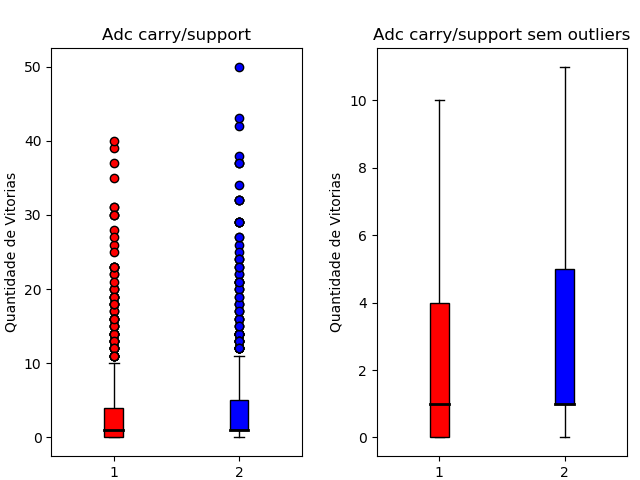
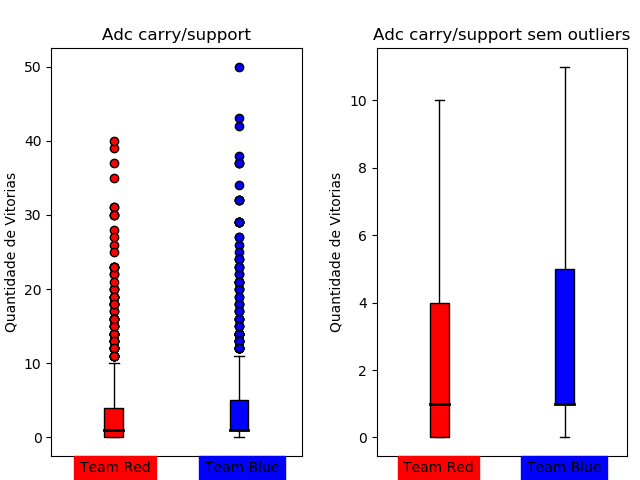
legendas dos subplots

diff --git a/Graphics/box_chart.py b/Graphics/box_chart.py
@@ -7,20 +7,27 @@ import errno
 def mathBoxPlot(listValues,listValues2, titleFig="Default", titleChart="simple", path='box_chart_save_fig/', folder='', typeData='Quantidade', dataName="Vitorias",color1="red",color2="blue"):
     blue_diamond = dict(markerfacecolor=color2, marker='D')
     red_diamond = dict(markerfacecolor=color1, marker='D')
-    
     dataRed = np.array([listValues,listValues2])
     dataBlue = np.array([listValues,listValues2])
     ind = np.arange(2)
     fig, axs = plt.subplots(1,2)
     fig.canvas.set_window_title(titleFig)
     bp = axs[0].boxplot(dataRed,patch_artist=True)
-    plt.xticks(ind, ('Time Azul', 'Time Vermelho'))
     bp1 = axs[1].boxplot(dataBlue,0, '',patch_artist=True)
     axs[0].set_title(titleChart)
     axs[0].set_ylabel(typeData+' de '+ dataName)
     axs[1].set_title(titleChart+ ' sem outliers')
     axs[1].set_ylabel(typeData+' de '+ dataName)
     colors = [color1,color2]
+    fig.text(0.63, 0.016, 'Team Red', color='black', backgroundcolor='red',
+         weight='roman', size='medium')
+    fig.text(0.823, 0.016, 'Team Blue', color='black',backgroundcolor='blue',
+             weight='roman',size='medium')
+    fig.text(0.125, 0.016, 'Team Red', color='black', backgroundcolor='red',
+         weight='roman', size='medium')
+    fig.text(0.320, 0.016, 'Team Blue', color='black',backgroundcolor='blue',
+             weight='roman',size='medium')
+
 
 
     for patch, color in zip(bp['boxes'], colors):
